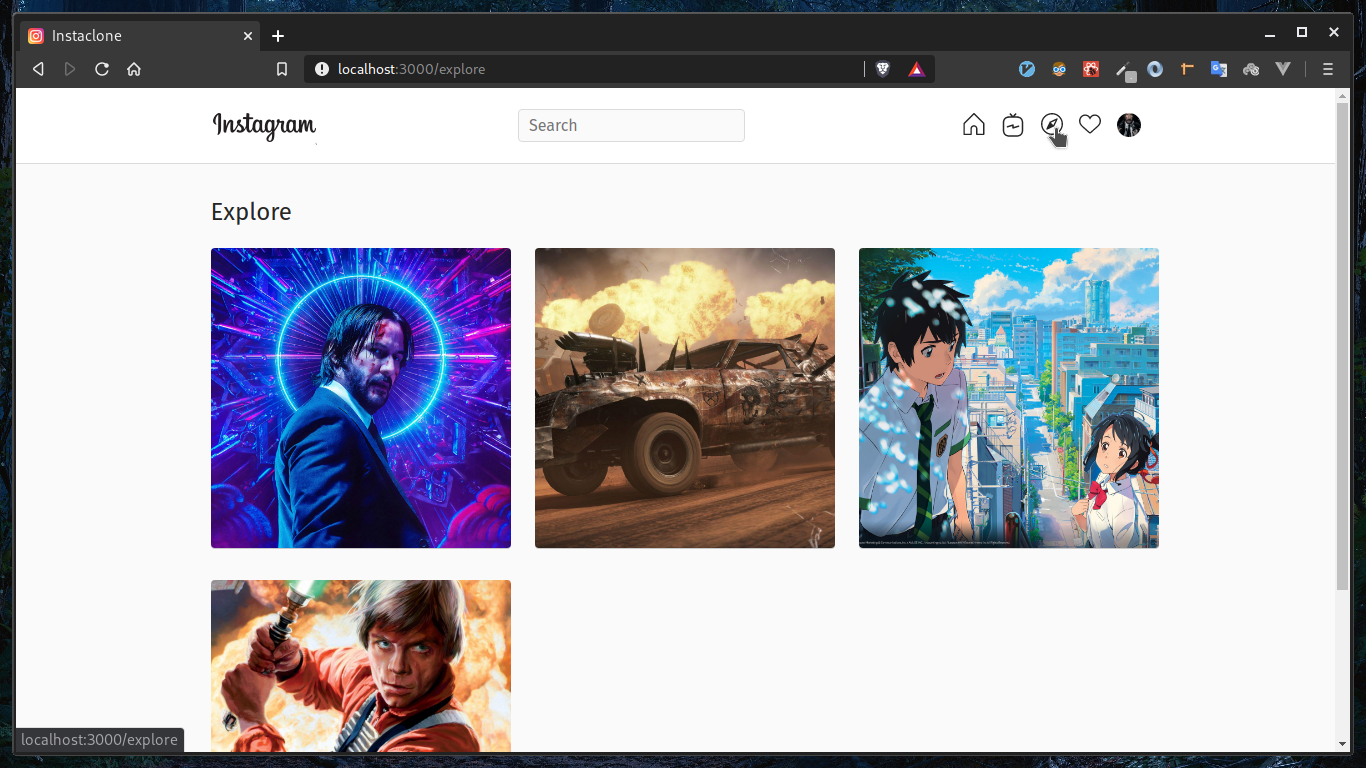
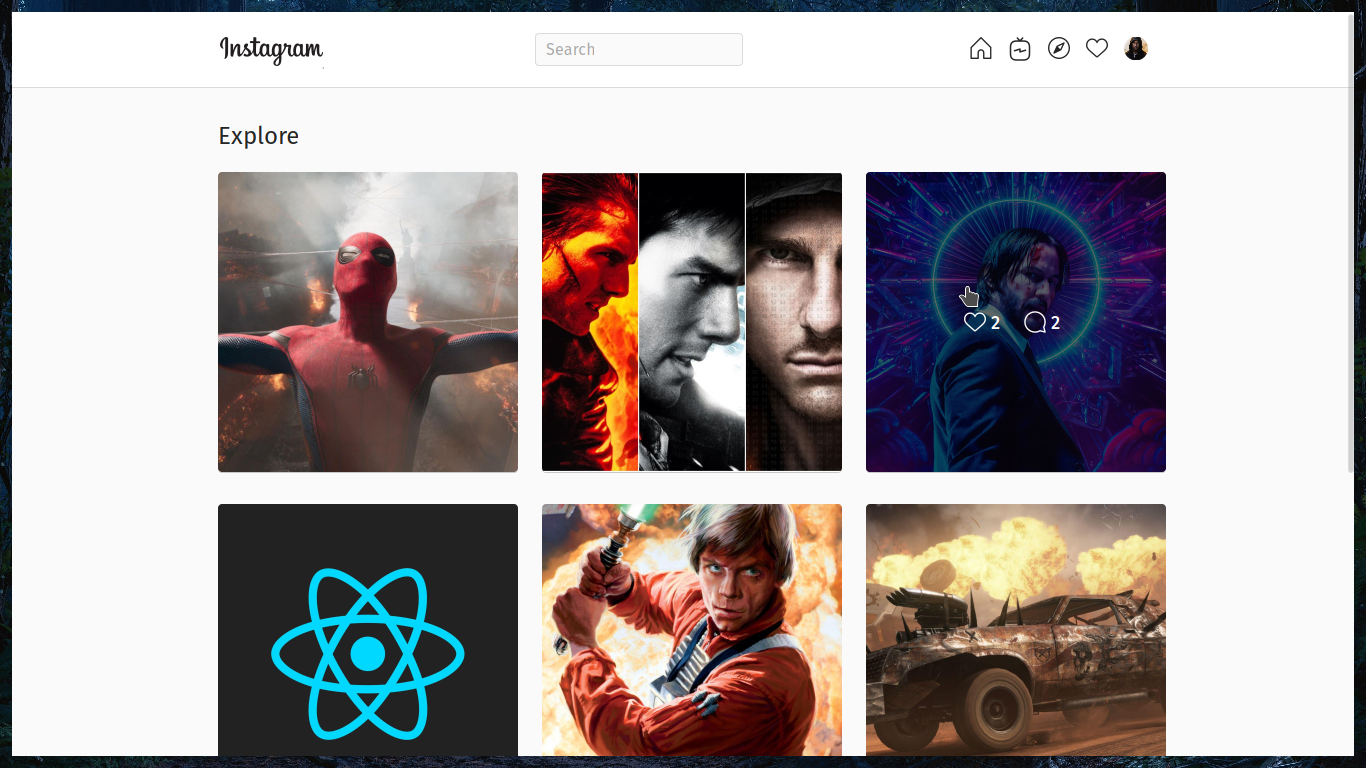
updated README, better screenshots

diff --git a/src/pages/Home.js b/src/pages/Home.js
@@ -33,7 +33,7 @@ const Home = () => {
         setFeed(res.data);
         setLoading(false);
       })
-      .catch((res) => logout());
+			.catch(res => console.log(res));
   }, [setFeed, setUser]);
 
   if (loading) {

diff --git a/README.md b/README.md
@@ -1,10 +1,12 @@
 # Instaclone Frontend
 
-Instagram clone using MERN stack. This is the frontend repo built with Reactjs. If you are looking for the backend repo, [click here](https://github.com/manikandanraji/instaclone-backend)
+Instagram clone using MERN stack. 
+
+This is the frontend repo built with React. If you are looking for the backend repo, [click here](https://github.com/manikandanraji/instaclone-backend)
 
 [Check out the deployed site](https://instaclone2.netlify.app)
 
-## Packages used
+## Core Packages
 1. React Router (for routing)
 2. Styled Components (for styling)
 3. React Toastify (for toast-notifications)
@@ -22,7 +24,7 @@ REACT_APP_CLOUDINARY_URL=https://api.cloudinary.com/v1_1/<cloud_name>/upload
 
 Then run <code>npm i && npm run start</code> to see the instaclone in action
 
-## How it looks
+## UI
 
 ### Home 
 ![Home](screenshots/home.png)
@@ -31,8 +33,8 @@ Then run <code>npm i && npm run start</code> to see the instaclone in action
 ![Explore](screenshots/explore.png)
 
 
-### Detailed Post
-![Detailed Post](screenshots/detailed_post.png)
+### Followers
+![Followers](screenshots/followers.png)
 
 
 ### Profile
@@ -42,10 +44,4 @@ Then run <code>npm i && npm run start</code> to see the instaclone in action
 ![Edit Profile](screenshots/edit_profile.png)
 
 ### New Post
-![New Post](screenshots/newpost.png)
-
-## Twitter clone
-I also built a twitter clone using Prisma + GraphQL. You can take a look, if you interested.
-
-1. [Twitter Clone Frontend](https://github.com/manikandanraji/twitter-clone-frontend)
-2. [Twitter Clone Backend](https://github.com/manikandanraji/twitter-clone-backend)
+![New Post](screenshots/new_post.png)
